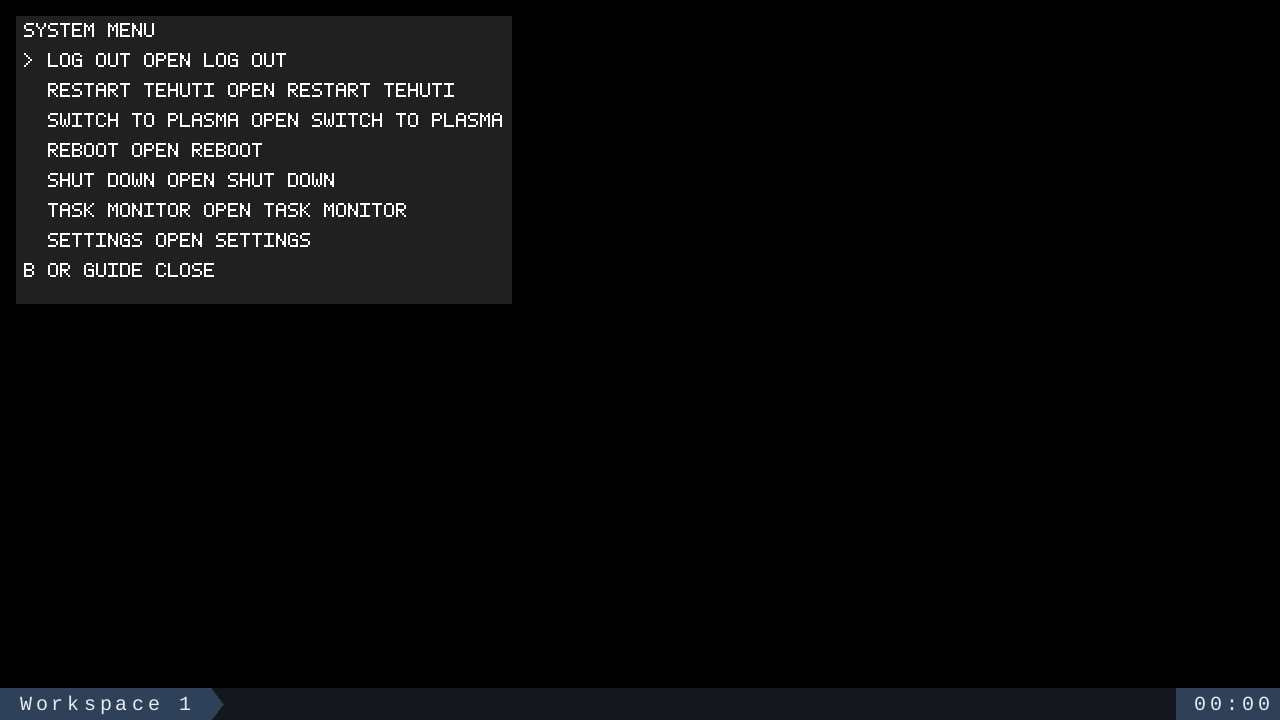
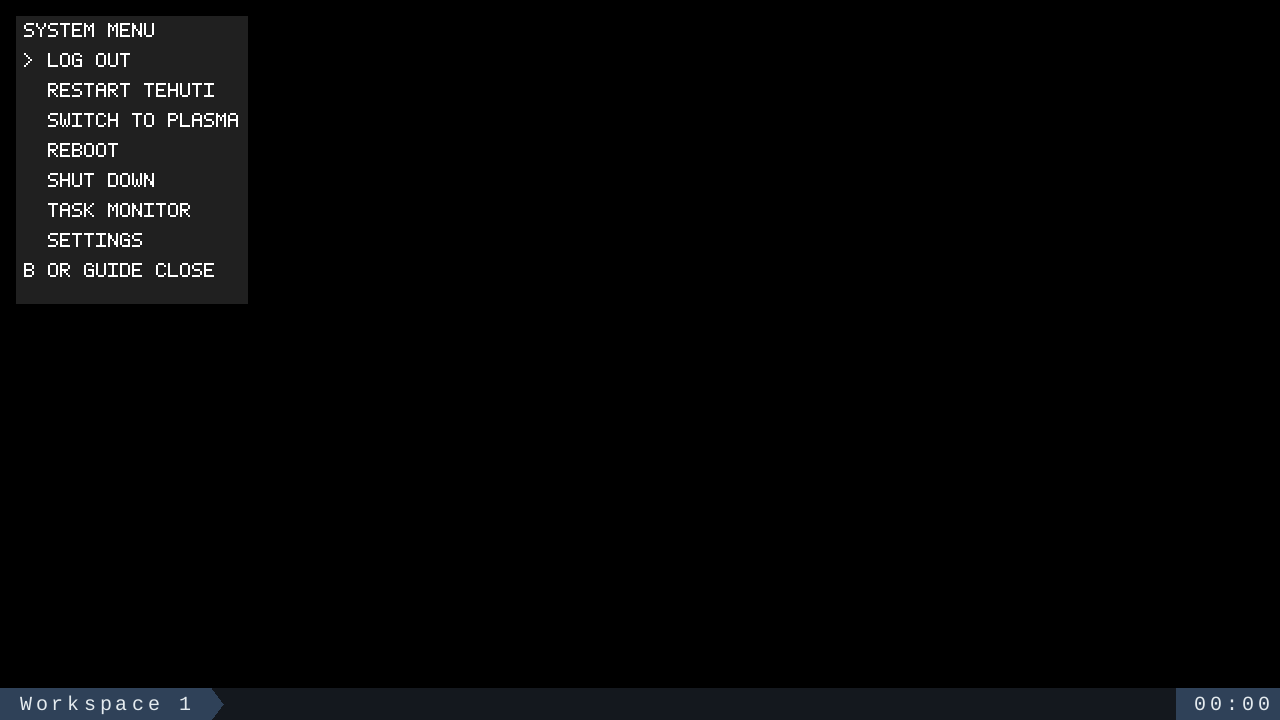
Show each Guide command name once
Claude-Session: https://claude.ai/code/session_01HcbfHSbt9kimi38ErHVb1e
Claude-Session: https://claude.ai/code/session_01BUZjALywsE5FXE4Sh9QPh4

Changed region(s): [[0.0938, 0.0, 0.4062, 0.4278]]

diff --git a/crates/compositor/tests/launcher.rs b/crates/compositor/tests/launcher.rs
@@ -5,7 +5,7 @@ mod tests {
     use tehuti_protocol::{ButtonName, ButtonState, Event, Text};
 
     #[test]
-    fn guide_items_show_phrases_that_rank_their_destination_first() {
+    fn guide_item_names_rank_their_destination_first() {
         let root = tempfile::tempdir().unwrap();
         let display = Display::<Compositor>::new().unwrap();
         let mut compositor = Compositor::new(&display.handle()).unwrap();
@@ -25,7 +25,12 @@ mod tests {
             "TASK MONITOR",
             "SETTINGS",
         ] {
-            assert!(menu.contains(&format!("open {name}")));
+            assert_eq!(
+                menu.lines()
+                    .filter(|line| line.trim_start_matches(['>', ' ']) == name)
+                    .count(),
+                1
+            );
             compositor.handle(&Event::Speech {
                 text: Text::new(format!("open {name}")).unwrap(),
             });

diff --git a/crates/core/tests/menu.rs b/crates/core/tests/menu.rs
@@ -52,7 +52,7 @@ mod menu {
         let mut menu = Some(Menu::default());
         assert_eq!(
             menu.as_ref().unwrap().text(),
-            "SYSTEM MENU\n> LOG OUT open LOG OUT\n  RESTART TEHUTI open RESTART TEHUTI\n  SWITCH TO PLASMA open SWITCH TO PLASMA\n  REBOOT open REBOOT\n  SHUT DOWN open SHUT DOWN\n  TASK MONITOR open TASK MONITOR\n  SETTINGS open SETTINGS\nB OR GUIDE CLOSE"
+            "SYSTEM MENU\n> LOG OUT\n  RESTART TEHUTI\n  SWITCH TO PLASMA\n  REBOOT\n  SHUT DOWN\n  TASK MONITOR\n  SETTINGS\nB OR GUIDE CLOSE"
         );
         assert_eq!(button(&mut menu, ButtonName::DpadUp, ButtonState::Pressed), None);
         assert!(menu.as_ref().unwrap().text().contains("\n> SETTINGS"));

diff --git a/crates/core/src/menu.rs b/crates/core/src/menu.rs
@@ -119,8 +119,6 @@ impl Menu {
         for (index, item) in ITEMS.iter().enumerate() {
             text.push_str(if index == self.selected { "\n> " } else { "\n  " });
             text.push_str(item.label());
-            text.push_str(" open ");
-            text.push_str(item.label());
         }
         text.push('\n');
         text.push_str(back);
